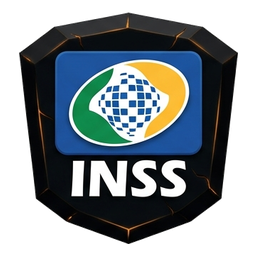
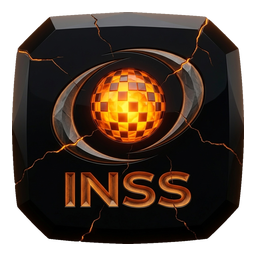
refactor: transition Luna theme to dynamic rendering
Deprecate the static Luna icon pack in favor of real-time holographic rendering. Updated the theme logic to ensure icons are processed dynamically when the Luna theme is active, replacing the legacy icon pack reference.

diff --git a/src/components/LauncherPhonePreview.tsx b/src/components/LauncherPhonePreview.tsx
@@ -21,6 +21,7 @@ import {
   X,
 } from "lucide-react";
 import type {
+  IconPackId,
   InstalledAppItem,
   LauncherPersistedState,
   LauncherUpdateCheckResponse,
@@ -116,6 +117,9 @@ export function LauncherPhonePreview({
     state.themeId === "luna-entre-luz-e-sombra" ||
     state.wallpaperId === "luna-shadow-light";
   const activeThemeId = isLunaTheme ? "luna-entre-luz-e-sombra" : "default";
+  const effectiveIconPack: IconPackId = isLunaTheme
+    ? "luna-holographic"
+    : state.iconPack;
 
   const coreStatus: HilmCoreStatus = useMemo(() => {
     if (
@@ -673,7 +677,7 @@ export function LauncherPhonePreview({
           {app ? (
             <>
               <motion.span
-                key={`plate-glyph-${slotId}-${state.iconPack}-${state.transition.effect}-${state.transition.enabled}-${app.packageName}`}
+                key={`plate-glyph-${slotId}-${effectiveIconPack}-${state.transition.effect}-${state.transition.enabled}-${app.packageName}`}
                 initial={
                   getHilmIconItemMotion(
                     state.transition,
@@ -712,10 +716,10 @@ export function LauncherPhonePreview({
               >
                 <AppGlyph
                   app={app}
-                  iconPack={state.iconPack}
+                  iconPack={effectiveIconPack}
                   customIconDataUrl={slot.customIconDataUrl}
                   sizeClass={
-                    usesExpandedGlyphScale(state.iconPack)
+                    usesExpandedGlyphScale(effectiveIconPack)
                       ? "w-6 h-6 shrink-0"
                       : "w-4 h-4 shrink-0"
                   }
@@ -942,7 +946,7 @@ export function LauncherPhonePreview({
           </svg>
           {app ? (
             <motion.span
-              key={`wing-glyph-${slotId}-${state.iconPack}-${state.transition.effect}-${state.transition.enabled}-${app.packageName}`}
+              key={`wing-glyph-${slotId}-${effectiveIconPack}-${state.transition.effect}-${state.transition.enabled}-${app.packageName}`}
               initial={iconItemMotion.initial}
               animate={slotState === "rest" ? iconItemMotion.animate : slotState}
               variants={{
@@ -959,9 +963,9 @@ export function LauncherPhonePreview({
             >
               <AppGlyph
                 app={app}
-                iconPack={state.iconPack}
+                iconPack={effectiveIconPack}
                 customIconDataUrl={slot.customIconDataUrl}
-                sizeClass={usesExpandedGlyphScale(state.iconPack) ? "w-8 h-8" : "w-6 h-6"}
+                sizeClass={usesExpandedGlyphScale(effectiveIconPack) ? "w-8 h-8" : "w-6 h-6"}
               />
             </motion.span>
           ) : (
@@ -1144,7 +1148,7 @@ export function LauncherPhonePreview({
           </svg>
           {app ? (
             <motion.span
-              key={`dock-glyph-${slotId}-${state.iconPack}-${state.transition.effect}-${state.transition.enabled}-${app.packageName}`}
+              key={`dock-glyph-${slotId}-${effectiveIconPack}-${state.transition.effect}-${state.transition.enabled}-${app.packageName}`}
               initial={
                 getHilmIconItemMotion(
                   state.transition,
@@ -1183,10 +1187,10 @@ export function LauncherPhonePreview({
             >
               <AppGlyph
                 app={app}
-                iconPack={state.iconPack}
+                iconPack={effectiveIconPack}
                 customIconDataUrl={slot.customIconDataUrl}
                 sizeClass={
-                  usesExpandedGlyphScale(state.iconPack)
+                  usesExpandedGlyphScale(effectiveIconPack)
                     ? "w-8 h-8"
                     : "w-5 h-5"
                 }
@@ -1705,7 +1709,7 @@ export function LauncherPhonePreview({
             >
               <AppDrawerModal
                 apps={INSTALLED_APPS_CATALOG}
-                iconPack={state.iconPack}
+                iconPack={effectiveIconPack}
                 themeId={activeThemeId}
                 targetSlot={drawerTargetSlot}
                 transition={state.transition}
@@ -1911,8 +1915,8 @@ export function LauncherPhonePreview({
                     >
                       <AppGlyph
                         app={app}
-                        iconPack={state.iconPack}
-                        sizeClass={usesExpandedGlyphScale(state.iconPack) ? "w-8 h-8" : "w-5 h-5"}
+                        iconPack={effectiveIconPack}
+                        sizeClass={usesExpandedGlyphScale(effectiveIconPack) ? "w-8 h-8" : "w-5 h-5"}
                       />
                     </div>
                     <div className="min-w-0 flex-1">
@@ -1973,8 +1977,8 @@ export function LauncherPhonePreview({
                 <div className="w-16 h-16 rounded-2xl bg-[#0C1422] border border-cyan-400/40 flex items-center justify-center">
                   <AppGlyph
                     app={activeAppWindow}
-                    iconPack={state.iconPack}
-                    sizeClass={usesExpandedGlyphScale(state.iconPack) ? "w-12 h-12" : "w-8 h-8"}
+                    iconPack={effectiveIconPack}
+                    sizeClass={usesExpandedGlyphScale(effectiveIconPack) ? "w-12 h-12" : "w-8 h-8"}
                   />
                 </div>
                 <div>
@@ -2011,7 +2015,7 @@ export function LauncherPhonePreview({
         {/* HILM Portal Holographic Expansion Layer */}
         <HilmPortalOverlay
           launch={portalLaunch}
-          iconPack={state.iconPack}
+          iconPack={effectiveIconPack}
           themeId={activeThemeId}
         />
       </div>

diff --git a/android-project/app/src/main/java/com/nossouniverso/launcher/ui/settings/LauncherSettingsActivity.kt b/android-project/app/src/main/java/com/nossouniverso/launcher/ui/settings/LauncherSettingsActivity.kt
@@ -166,15 +166,11 @@ class LauncherSettingsActivity : AppCompatActivity() {
 
             app.shortcutStorage.setLauncherTheme(targetTheme)
             if (targetTheme == ShortcutStorage.THEME_LUNA) {
-                app.shortcutStorage.setSelectedIconPackId(IconPackInfo.STYLE_LUNA_HOLOGRAPHIC)
                 if (app.shortcutStorage.getPanelOpacityPercent() > 50) {
                     app.shortcutStorage.setPanelOpacityPercent(40)
                     seekOpacity.progress = 15
                 }
             } else {
-                if (app.shortcutStorage.getSelectedIconPackId() == IconPackInfo.STYLE_LUNA_HOLOGRAPHIC) {
-                    app.shortcutStorage.setSelectedIconPackId(IconPackInfo.STYLE_HILM_ARTIFACTS)
-                }
                 if (app.shortcutStorage.getPanelOpacityPercent() <= 45) {
                     app.shortcutStorage.setPanelOpacityPercent(78)
                     seekOpacity.progress = 53
@@ -207,10 +203,15 @@ class LauncherSettingsActivity : AppCompatActivity() {
         val packs = app.iconPackManager.getAvailableIconPacks()
         val currentId = app.shortcutStorage.getSelectedIconPackId()
         val activePack = packs.firstOrNull { it.id == currentId }
-        txtSettingsActivePack.text = getString(
-            R.string.active_icon_pack_format,
-            activePack?.title ?: "HILM Artefatos 3D (Universal)"
-        )
+        val isLunaTheme = app.shortcutStorage.getLauncherTheme() == ShortcutStorage.THEME_LUNA
+        txtSettingsActivePack.text = if (isLunaTheme) {
+            "Tema Luna ativo (ícones holográficos exclusivos) · Padrão salvo: ${activePack?.title ?: "HILM Artefatos 3D (Universal)"}"
+        } else {
+            getString(
+                R.string.active_icon_pack_format,
+                activePack?.title ?: "HILM Artefatos 3D (Universal)"
+            )
+        }
 
         radioIconPacks.setOnCheckedChangeListener(null)
         radioIconPacks.removeAllViews()
@@ -232,10 +233,14 @@ class LauncherSettingsActivity : AppCompatActivity() {
             app.shortcutStorage.setSelectedIconPackId(selected)
             app.iconPackManager.clearCache()
             val updated = packs.firstOrNull { it.id == selected }
-            txtSettingsActivePack.text = getString(
-                R.string.active_icon_pack_format,
-                updated?.title ?: selected
-            )
+            txtSettingsActivePack.text = if (app.shortcutStorage.getLauncherTheme() == ShortcutStorage.THEME_LUNA) {
+                "Tema Luna ativo (ícones holográficos exclusivos) · Padrão salvo: ${updated?.title ?: selected}"
+            } else {
+                getString(
+                    R.string.active_icon_pack_format,
+                    updated?.title ?: selected
+                )
+            }
         }
     }
 

diff --git a/android-project/app/src/main/java/com/nossouniverso/launcher/data/ShortcutStorage.kt b/android-project/app/src/main/java/com/nossouniverso/launcher/data/ShortcutStorage.kt
@@ -216,7 +216,7 @@ class ShortcutStorage(context: Context) {
                     "obsidian-core", "obsidian_core" -> IconPackInfo.STYLE_OBSIDIAN_CORE
                     "cyberpunk-holo", "cyberpunk_holo" -> IconPackInfo.STYLE_CYBERPUNK_HOLO
                     "tron-neon", "tron_neon" -> IconPackInfo.STYLE_TRON_NEON
-                    "luna-holographic", "luna_holographic", IconPackInfo.STYLE_LUNA_HOLOGRAPHIC -> IconPackInfo.STYLE_LUNA_HOLOGRAPHIC
+                    "luna-holographic", "luna_holographic", IconPackInfo.STYLE_LUNA_HOLOGRAPHIC -> IconPackInfo.STYLE_HILM_ARTIFACTS
                     "titanium-liquid" -> IconPackInfo.ASSET_PACK_PREFIX + "titanium_liquid"
                     "nosso-universo" -> IconPackInfo.STYLE_NOSSO_UNIVERSO
                     "monochrome-hud" -> IconPackInfo.STYLE_MONOCHROME_HUD
@@ -260,15 +260,24 @@ class ShortcutStorage(context: Context) {
     fun getSelectedIconPackId(): String {
         val raw = prefs.getString(KEY_ICON_PACK, IconPackInfo.STYLE_HILM_ARTIFACTS)
             ?: IconPackInfo.STYLE_HILM_ARTIFACTS
-        return if (raw == IconPackInfo.LEGACY_STYLE_HILM_ARTIFACTS || raw == "hilm-artifacts") {
-            IconPackInfo.STYLE_HILM_ARTIFACTS
-        } else {
-            raw
+        return when (raw) {
+            IconPackInfo.LEGACY_STYLE_HILM_ARTIFACTS,
+            "hilm-artifacts",
+            IconPackInfo.STYLE_LUNA_HOLOGRAPHIC,
+            "luna-holographic",
+            "luna_holographic" -> IconPackInfo.STYLE_HILM_ARTIFACTS
+            else -> raw
         }
     }
 
     fun setSelectedIconPackId(id: String) {
-        prefs.edit().putString(KEY_ICON_PACK, id).apply()
+        val clean = when (id) {
+            IconPackInfo.STYLE_LUNA_HOLOGRAPHIC,
+            "luna-holographic",
+            "luna_holographic" -> IconPackInfo.STYLE_HILM_ARTIFACTS
+            else -> id
+        }
+        prefs.edit().putString(KEY_ICON_PACK, clean).apply()
     }
 
     fun getPanelOpacityPercent(): Int {

diff --git a/src/components/IconPackManagerPanel.tsx b/src/components/IconPackManagerPanel.tsx
@@ -26,6 +26,7 @@ import { AppGlyph } from "./AppGlyph";
 
 interface IconPackManagerPanelProps {
   activePackId: IconPackId;
+  isLunaThemeActive?: boolean;
   onSelectIconPack: (packId: IconPackId) => void;
 }
 
@@ -40,6 +41,7 @@ const SAMPLE_APPS_FOR_HUD = [
 
 export function IconPackManagerPanel({
   activePackId,
+  isLunaThemeActive = false,
   onSelectIconPack,
 }: IconPackManagerPanelProps) {
   const [inspectingPack, setInspectingPack] =
@@ -109,8 +111,21 @@ export function IconPackManagerPanel({
             Gerenciador de Pacotes de Ícones
           </h2>
           <p className="text-xs text-slate-400 mt-0.5">
-            Visualize, selecione, importe pacotes <code className="text-cyan-300">.zip</code> sem recompilar o APK ou restaure os originais. Ativo:{" "}
-            <span className="text-cyan-300 font-medium">{activePack.name}</span>
+            {isLunaThemeActive ? (
+              <>
+                Tema Luna ativo usando{" "}
+                <span className="text-[#00E5FF] font-medium">
+                  ícones holográficos exclusivos do tema
+                </span>
+                . Pacote salvo para o tema padrão:{" "}
+                <span className="text-slate-200 font-medium">{activePack.name}</span>
+              </>
+            ) : (
+              <>
+                Visualize, selecione, importe pacotes <code className="text-cyan-300">.zip</code> sem recompilar o APK ou restaure os originais. Ativo:{" "}
+                <span className="text-cyan-300 font-medium">{activePack.name}</span>
+              </>
+            )}
           </p>
         </div>
 

diff --git a/src/App.tsx b/src/App.tsx
@@ -50,7 +50,10 @@ function loadInitialState(): LauncherPersistedState {
         parsed.themeId === "luna-entre-luz-e-sombra"
           ? "luna-entre-luz-e-sombra"
           : "default",
-      iconPack: parsed.iconPack || DEFAULT_LAUNCHER_STATE.iconPack,
+      iconPack:
+        parsed.iconPack && parsed.iconPack !== "luna-holographic"
+          ? parsed.iconPack
+          : DEFAULT_LAUNCHER_STATE.iconPack,
       wallpaperId: parsed.wallpaperId || DEFAULT_LAUNCHER_STATE.wallpaperId,
       customWallpaperUrl: parsed.customWallpaperUrl,
       panelOpacity:
@@ -168,7 +171,6 @@ export default function App() {
           ...prev,
           themeId,
           wallpaperId: "luna-shadow-light",
-          iconPack: "luna-holographic",
           panelOpacity: 40,
         };
       }
@@ -226,7 +228,12 @@ export default function App() {
           : imported.themeId === "default"
             ? "default"
             : prev.themeId,
-      iconPack: imported.iconPack || prev.iconPack,
+      iconPack:
+        imported.iconPack && imported.iconPack !== "luna-holographic"
+          ? imported.iconPack
+          : prev.iconPack === "luna-holographic"
+            ? DEFAULT_LAUNCHER_STATE.iconPack
+            : prev.iconPack,
       wallpaperId: imported.wallpaperId || prev.wallpaperId,
       customWallpaperUrl: imported.customWallpaperUrl ?? prev.customWallpaperUrl,
       panelOpacity:

diff --git a/android-project/app/src/main/java/com/nossouniverso/launcher/data/IconPackManager.kt b/android-project/app/src/main/java/com/nossouniverso/launcher/data/IconPackManager.kt
@@ -99,16 +99,6 @@ class IconPackManager(
 
         packs.add(
             IconPackInfo(
-                id = IconPackInfo.STYLE_LUNA_HOLOGRAPHIC,
-                title = "Luna Holográfico (Luz & Sombra)",
-                subtitle = "Símbolos flutuantes sem moldura em ciano luminoso (#00E5FF) e azul elétrico (#398BFF).",
-                author = "HILM · Tema Luna",
-                kind = IconPackKind.BUILT_IN_STYLE,
-                isBuiltIn = true
-            )
-        )
-        packs.add(
-            IconPackInfo(
                 id = IconPackInfo.STYLE_NOSSO_UNIVERSO,
                 title = "Nosso Universo Padrão (HUD Ciano & Âmbar)",
                 subtitle = "Tonalização técnica ciano integrada às molduras HUD.",
@@ -412,6 +402,13 @@ class IconPackManager(
     }
 
     fun resolveAppIcon(packageName: String, activityName: String, fallback: Drawable): Drawable {
+        if (storage.getLauncherTheme() == ShortcutStorage.THEME_LUNA) {
+            return renderUnifiedLunaHolographicIcon(
+                cacheIdentity = "theme_luna:${packageName.lowercase()}/${activityName.lowercase()}",
+                packageName = packageName,
+                fallback = fallback
+            )
+        }
         val selectedId = storage.getSelectedIconPackId()
         return resolveForPack(selectedId, packageName, activityName, fallback)
     }

diff --git a/android-project/app/src/main/java/com/nossouniverso/launcher/ui/settings/IconPackManagerActivity.kt b/android-project/app/src/main/java/com/nossouniverso/launcher/ui/settings/IconPackManagerActivity.kt
@@ -167,10 +167,15 @@ class IconPackManagerActivity : AppCompatActivity() {
         val packs = app.iconPackManager.getAvailableIconPacks()
         val selectedId = app.shortcutStorage.getSelectedIconPackId()
         val activePack = packs.firstOrNull { it.id == selectedId }
-        txtActivePackSummary.text = getString(
-            R.string.active_icon_pack_format,
-            activePack?.title ?: "HILM Artefatos 3D (Universal)"
-        )
+        val isLunaTheme = app.shortcutStorage.getLauncherTheme() == ShortcutStorage.THEME_LUNA
+        txtActivePackSummary.text = if (isLunaTheme) {
+            "Tema Luna ativo (ícones holográficos exclusivos) · Padrão salvo: ${activePack?.title ?: "HILM Artefatos 3D (Universal)"}"
+        } else {
+            getString(
+                R.string.active_icon_pack_format,
+                activePack?.title ?: "HILM Artefatos 3D (Universal)"
+            )
+        }
         btnRestoreOriginalIcons.isEnabled = selectedId != IconPackInfo.STYLE_SYSTEM_DEFAULT
         adapter.submit(packs, selectedId)
     }

diff --git a/src/data/iconPackRegistry.ts b/src/data/iconPackRegistry.ts
@@ -45,15 +45,6 @@ export const ICON_PACK_REGISTRY: IconPackDescriptor[] = [
     hilmArtifactsManifest as RawManifest,
     "/assets/icon-packs/hilm-artifacts"
   ),
-  {
-    id: "luna-holographic",
-    name: "Luna Holográfico (Luz & Sombra)",
-    description:
-      "Símbolos flutuantes em ciano holográfico (#00E5FF), azul elétrico (#398BFF) e branco azulado (#D9F7FF), sem caixas pesadas.",
-    author: "HILM · Tema Luna",
-    version: "1.0.0",
-    kind: "hud-style",
-  },
   buildIllustratedDescriptor(
     obsidianCoreManifest as RawManifest,
     "/assets/icon-packs/obsidian-core"

diff --git a/src/data/launcherCatalog.ts b/src/data/launcherCatalog.ts
@@ -225,7 +225,7 @@ export const LAUNCHER_THEMES = [
     id: "luna-entre-luz-e-sombra" as const,
     name: "Tema Luna — Entre Luz e Sombra",
     subtitle:
-      "Projeção holográfica pessoal em ciano (#00E5FF) e azul elétrico (#398BFF) ao redor da personagem.",
+      "Papel de parede pessoal e ícones holográficos exclusivos em ciano (#00E5FF) e azul elétrico (#398BFF) ao redor da personagem.",
     badge: "Exclusivo HILM",
   },
 ];

diff --git a/src/components/StudioWorkspacePanel.tsx b/src/components/StudioWorkspacePanel.tsx
@@ -377,6 +377,10 @@ export function StudioWorkspacePanel({
             {/* Section 2: Icon Pack Manager */}
             <IconPackManagerPanel
               activePackId={state.iconPack}
+              isLunaThemeActive={
+                state.themeId === "luna-entre-luz-e-sombra" ||
+                state.wallpaperId === "luna-shadow-light"
+              }
               onSelectIconPack={onSelectIconPack}
             />
 
